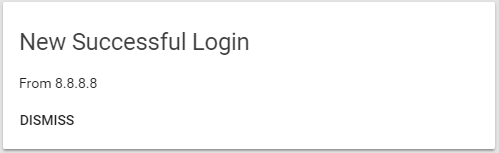
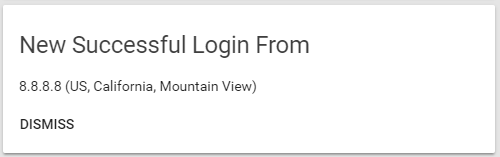
0.0.2 - Added geo info to notification and sensor attributes.

diff --git a/custom_components/sensor/authenticated.py b/custom_components/sensor/authenticated.py
@@ -9,10 +9,14 @@ import requests
 import yaml
 from homeassistant.helpers.entity import Entity
 
+ATTR_COUNTRY = 'country'
+ATTR_REGION = 'region'
+ATTR_CITY = 'city'
+
 SCAN_INTERVAL = timedelta(seconds=30)
 
 PLATFORM_NAME = 'authenticated'
-PLATFORM_VERSION = '0.0.1'
+PLATFORM_VERSION = '0.0.2'
 
 LOGFILE = 'home-assistant.log'
 OUTFILE = '.ip_authenticated.yaml'
@@ -31,6 +35,9 @@ class Authenticated(Entity):
     def __init__(self, hass, log, out):
         """Initialize the sensor."""
         self._state = None
+        self._country = None
+        self._region = None
+        self._city = None
         self._log = log
         self._out = out
         self.hass = hass
@@ -60,7 +67,8 @@ class Authenticated(Entity):
             geo_region = geo['region']
             geo_city = geo['city']
         self.write_file(ip_address, access_time, geo_country, geo_region, geo_city)
-        self.hass.components.persistent_notification.create('From {}'.format(ip_address), 'New successful login')
+        self.hass.components.persistent_notification.create('{}'.format(ip_address
+            + ' (' + geo_country + ', ' + geo_region + ', ' + geo_city + ')'), 'New successful login from')
 
     def update_ip(self, ip_address, access_time):
         """If we know this IP"""
@@ -111,6 +119,11 @@ class Authenticated(Entity):
             else:
                 self.first_ip(ip_address, access_time)
             self._state = ip_address
+            stream = open(self._out, 'r')
+            geo_info = yaml.load(stream)
+            self._country = geo_info[ip_address]['country']
+            self._region = geo_info[ip_address]['region']
+            self._city = geo_info[ip_address]['city']
 
     @property
     def name(self):
@@ -126,3 +139,12 @@ class Authenticated(Entity):
     def icon(self):
         """Return the icon of the sensor."""
         return 'mdi:security-lock'
+
+    @property
+    def device_state_attributes(self):
+        """Return attributes for the sensor."""
+        return {
+            ATTR_COUNTRY: self._country,
+            ATTR_REGION: self._region,
+            ATTR_CITY: self._city,
+        }

diff --git a/README.md b/README.md
@@ -1,6 +1,6 @@
 # sensor.authenticated
   
-[![Version](https://img.shields.io/badge/version-0.0.1-green.svg?style=for-the-badge)](#) [![mantained](https://img.shields.io/maintenance/yes/2018.svg?style=for-the-badge)](#) [![maintainer](https://img.shields.io/badge/maintainer-Joakim%20Sørensen%20%40ludeeus-blue.svg?style=for-the-badge)](#)\
+[![Version](https://img.shields.io/badge/version-0.0.2-green.svg?style=for-the-badge)](#) [![mantained](https://img.shields.io/maintenance/yes/2018.svg?style=for-the-badge)](#) [![maintainer](https://img.shields.io/badge/maintainer-Joakim%20Sørensen%20%40ludeeus-blue.svg?style=for-the-badge)](#)\
 A platform which allows you to get information sucessfull logins to Home Assistant.
   
 To get started put `/custom_components/sensor/authenticated.py` here:  
